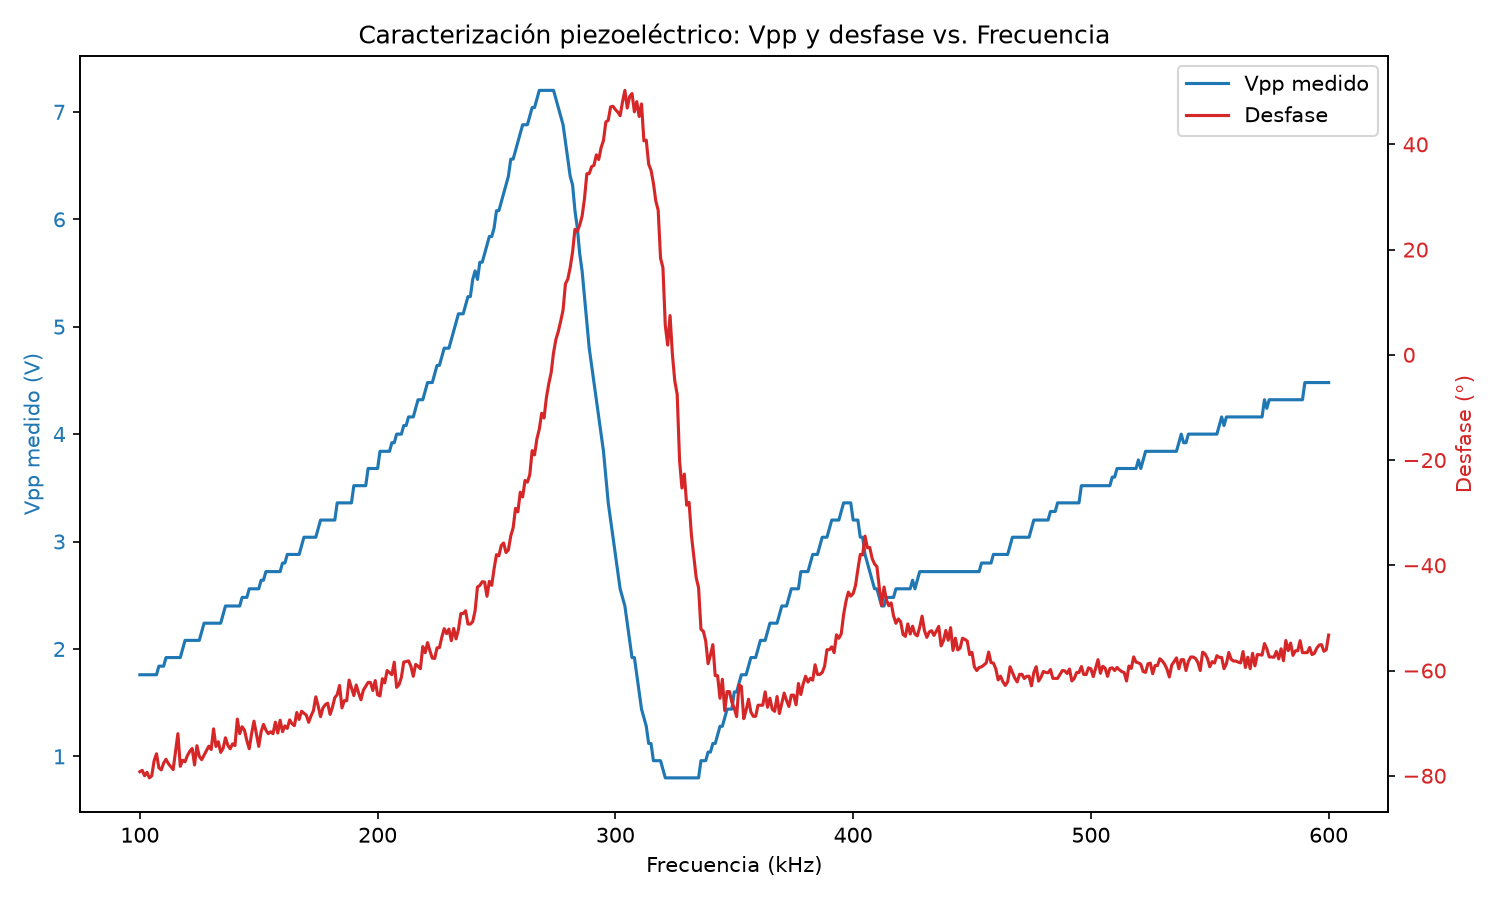
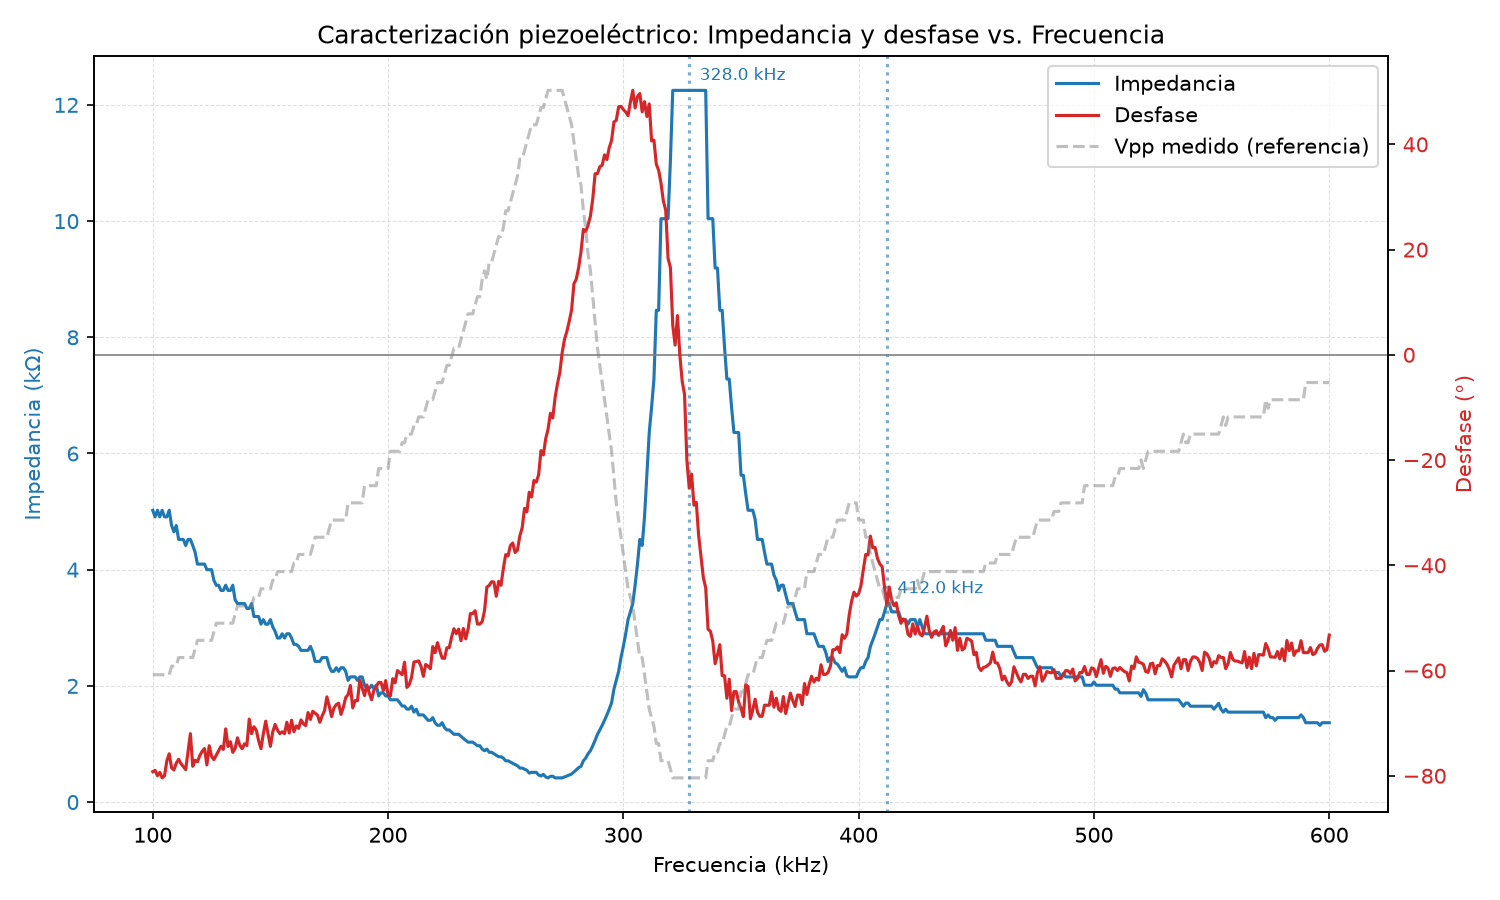
cambio final 22-07

diff --git a/graficar_caracterizacion.py b/graficar_caracterizacion.py
@@ -111,7 +111,7 @@ def graficar(frecuencias, vpp_medida, desfase, impedancia, ruta_csv: str):
     # --- Picos ---
     picos_imp = encontrar_picos(impedancias_kohm, frecuencias)
     for freq_pico, val_pico in picos_imp:
-        ax_imp.axvline(freq_pico, color=color_imp, linestyle=":", alpha=0.6)
+        ax_imp.axvline(freq_pico, color=color_imp, linestyle=":", alpha=0.8)
         ax_imp.annotate(f"{freq_pico:.1f} kHz",
                          xy=(freq_pico, val_pico),
                          xytext=(5, 5), textcoords="offset points",
@@ -124,9 +124,9 @@ def graficar(frecuencias, vpp_medida, desfase, impedancia, ruta_csv: str):
     # --- Valles ---
     
     valles_imp = encontrar_valles(impedancias_kohm, frecuencias)
-    color_valle = "tab:green"
+    color_valle = "black"
     for freq_valle, val_valle in valles_imp:
-        ax_imp.axvline(freq_valle, color=color_valle, linestyle=":", alpha=0.6)
+        ax_imp.axvline(freq_valle, color=color_valle, linestyle=":", alpha=0.8)
         ax_imp.annotate(f"{freq_valle:.1f} kHz",
                          xy=(freq_valle, val_valle),
                          xytext=(5, -12), textcoords="offset points",